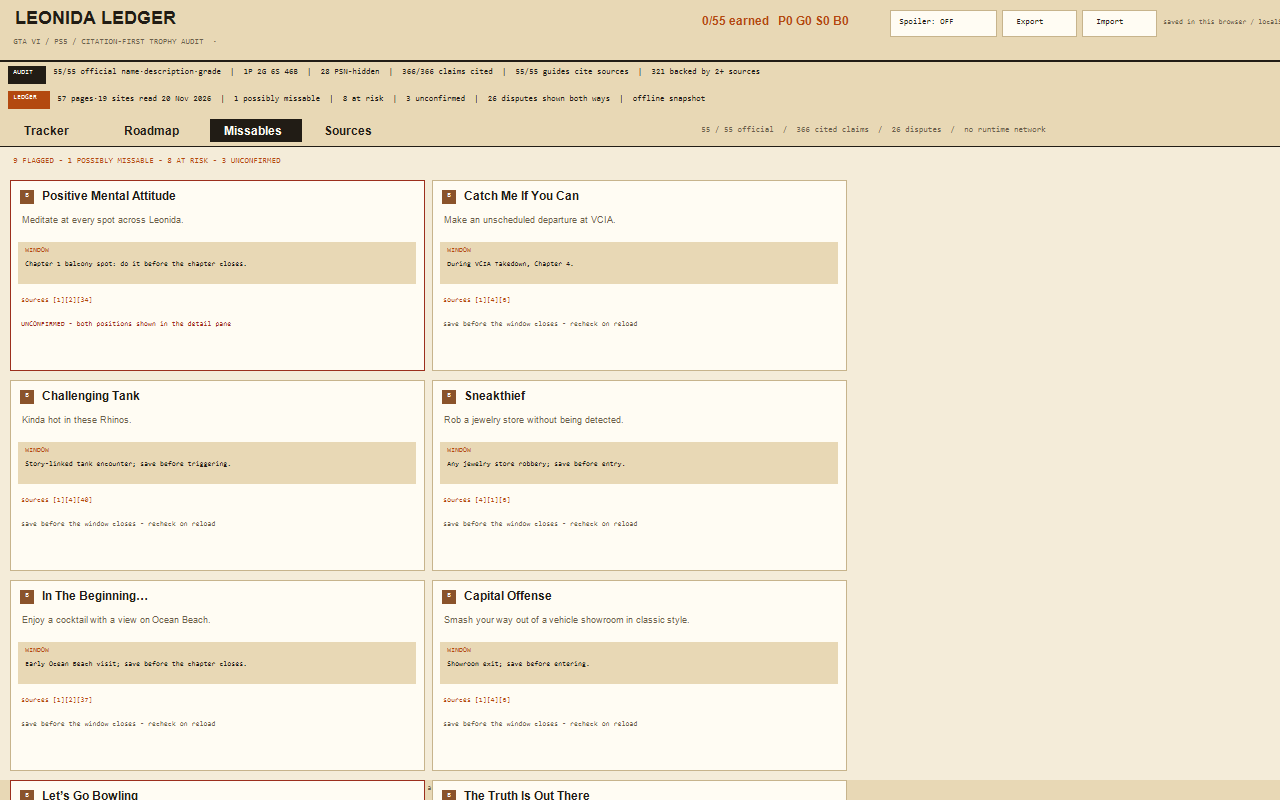
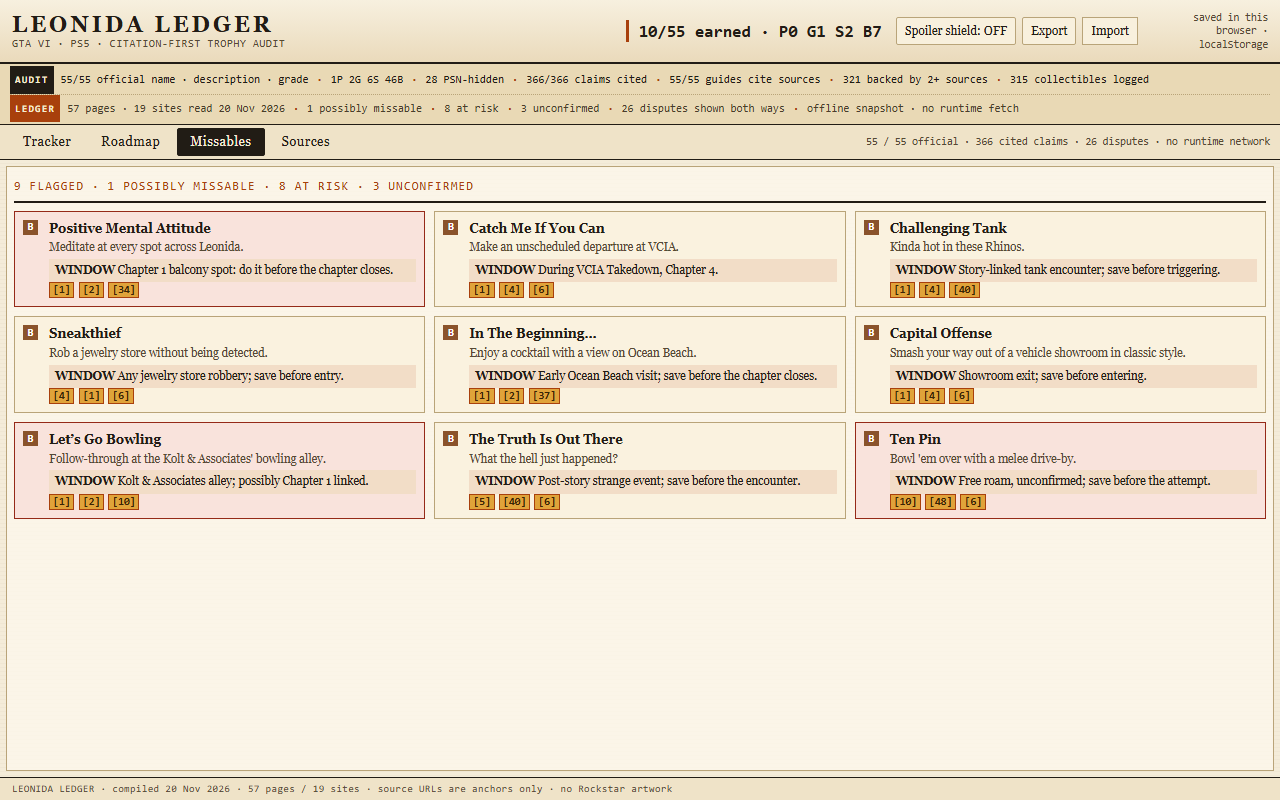
Legible audit ledger with visible progress and full source URLs

Changed region(s): [[0.0, 0.0, 1.0, 0.6562], [0.0, 0.7188, 0.6562, 0.9062], [0.0, 0.9688, 0.6875, 1.0]]

diff --git a/app/style.css b/app/style.css
@@ -1,125 +1,125 @@
-:root{--paper:#f4ecd9;--paper2:#efe3c8;--ink:#211c15;--muted:#6c604c;--amber:#b3490f;--amber2:#e0a33a;--rule:#c7b48c;--green:#37633f;--red:#9c2f1d}
+:root{--paper:#f4ecd9;--paper2:#efe3c8;--ink:#211c15;--muted:#554934;--amber:#a8400c;--amber2:#e0a33a;--rule:#b9a479;--green:#2f5a37;--red:#952a18}
 *{box-sizing:border-box}
-html,body{margin:0;height:100%;background:var(--paper);color:var(--ink);font-family:Georgia,'Times New Roman',serif;font-size:11px}
+html,body{margin:0;height:100%;background:var(--paper);color:var(--ink);font-family:Georgia,'Times New Roman',serif;font-size:13px;line-height:1.35}
 body{display:flex;flex-direction:column;overflow:hidden;background-image:repeating-linear-gradient(0deg,rgba(120,96,60,.035) 0 1px,transparent 1px 4px)}
 button,input{font:inherit;color:inherit}
-button{cursor:pointer;background:var(--paper2);border:1px solid var(--rule);border-radius:2px;padding:2px 5px}
+button{cursor:pointer;background:var(--paper2);border:1px solid var(--rule);border-radius:2px;padding:3px 7px}
 button:hover{border-color:var(--amber);background:#f6dfb4}
 a{color:var(--amber);text-decoration:none}
 .mono,.num,.g,.badge,.audit,.topstats,.saved,.tabnote{font-family:ui-monospace,'Cascadia Mono',Consolas,monospace;font-variant-numeric:tabular-nums}
-.topbar{height:62px;flex:0 0 62px;display:grid;grid-template-columns:1fr auto auto auto;gap:14px;align-items:center;padding:6px 12px;border-bottom:2px solid var(--ink);background:linear-gradient(180deg,#f7f0df,#eadabb)}
+.topbar{height:64px;flex:0 0 64px;display:grid;grid-template-columns:1fr auto auto auto;gap:14px;align-items:center;padding:6px 12px;border-bottom:2px solid var(--ink);background:linear-gradient(180deg,#f7f0df,#eadabb)}
 .brand{display:flex;flex-direction:column;line-height:1.15}
-.brand b{letter-spacing:.16em;font-size:19px;text-transform:uppercase}
-.brand span{font-family:ui-monospace,Consolas,monospace;font-size:9px;color:var(--muted);letter-spacing:.09em}
-.topstats{font-size:14px;font-weight:700;border-left:3px solid var(--amber);padding-left:9px;white-space:nowrap}
-.topactions{display:flex;gap:5px;align-items:center}
-.topactions button,.topactions .import{font-size:10px;padding:4px 7px;background:#f8f0dd;border:1px solid var(--rule)}
+.brand b{letter-spacing:.14em;font-size:22px;text-transform:uppercase}
+.brand span{font-family:ui-monospace,Consolas,monospace;font-size:10.5px;color:var(--muted);letter-spacing:.07em}
+.topstats{font-size:17px;font-weight:700;border-left:3px solid var(--amber);padding-left:10px;white-space:nowrap}
+.topactions{display:flex;gap:6px;align-items:center}
+.topactions button,.topactions .import{font-size:12px;padding:5px 8px;background:#f8f0dd;border:1px solid var(--rule)}
 .topactions button.on{background:var(--amber);color:#fff;border-color:var(--amber)}
 .import input{display:none}
-.saved{font-size:9px;color:var(--muted);max-width:96px;text-align:right;line-height:1.2}
-.audit{flex:0 0 54px;border-bottom:1px solid var(--ink);background:#e9d9b5;padding:2px 10px}
-.audit-row{height:25px;line-height:25px;white-space:nowrap;overflow:hidden;font-size:9.6px;letter-spacing:.01em}
+.saved{font-size:10.5px;color:var(--muted);max-width:116px;text-align:right;line-height:1.25}
+.audit{flex:0 0 60px;border-bottom:1px solid var(--ink);background:#e9d9b5;padding:2px 10px}
+.audit-row{height:28px;line-height:28px;white-space:nowrap;overflow:hidden;font-size:11px;letter-spacing:0}
 .audit-row-2{border-top:1px dotted var(--rule);color:#493d2b}
-.audit-tag{display:inline-block;background:var(--ink);color:#f7ecd2;padding:0 5px;margin-right:7px;font-size:9px;letter-spacing:.14em}
+.audit-tag{display:inline-block;background:var(--ink);color:#f7ecd2;padding:0 5px;margin-right:7px;font-size:10px;letter-spacing:.12em;font-weight:700}
 .audit-row-2 .audit-tag{background:var(--amber)}
-.sep{color:var(--amber);padding:0 3px}
-.tabs{flex:0 0 31px;display:flex;align-items:center;gap:4px;padding:3px 10px;border-bottom:1px solid var(--ink);background:var(--paper2)}
-.tabs button{padding:3px 12px;font-size:11px;letter-spacing:.05em;border-color:transparent;background:transparent}
+.sep{color:var(--amber);padding:0 2px;font-weight:700}
+.tabs{flex:0 0 33px;display:flex;align-items:center;gap:4px;padding:3px 10px;border-bottom:1px solid var(--ink);background:var(--paper2)}
+.tabs button{padding:4px 12px;font-size:13px;letter-spacing:.04em;border-color:transparent;background:transparent}
 .tabs button.on{background:var(--ink);color:#f8edda;border-color:var(--ink)}
-.tabnote{margin-left:auto;font-size:9px;color:var(--muted)}
-.workspace{flex:1 1 auto;display:grid;grid-template-columns:172px 360px minmax(0,1fr) 170px;gap:6px;padding:6px;min-height:0}
+.tabnote{margin-left:auto;font-size:10.5px;color:var(--muted)}
+.workspace{flex:1 1 auto;display:grid;grid-template-columns:190px 390px minmax(0,1fr) 180px;gap:6px;padding:6px;min-height:0}
 .wide-view .workspace{grid-template-columns:1fr}
 .wide-view .left,.wide-view .next{display:none}
-.left,.next,.center,.detail{min-height:0;overflow:auto;border:1px solid var(--rule);background:rgba(255,251,240,.65);padding:6px}
+.left,.next,.center,.detail{min-height:0;overflow:auto;border:1px solid var(--rule);background:rgba(255,251,240,.65);padding:7px}
 .left,.next{background:#eee0c2}
 .center.wide{grid-column:1/-1}
-.rail-title{font-family:ui-monospace,Consolas,monospace;font-size:9px;letter-spacing:.12em;text-transform:uppercase;color:var(--amber);border-bottom:1px solid var(--rule);padding:2px 0 4px;margin-bottom:4px}
+.rail-title{font-family:ui-monospace,Consolas,monospace;font-size:10.5px;letter-spacing:.1em;text-transform:uppercase;color:var(--amber);border-bottom:1px solid var(--rule);padding:2px 0 4px;margin-bottom:5px}
 .filter-list{display:flex;flex-direction:column;gap:1px}
-.filter{display:flex;justify-content:space-between;width:100%;border:0;border-left:3px solid transparent;background:transparent;padding:3px 4px;font-size:10.5px;text-align:left}
-.filter b{font-family:ui-monospace,Consolas,monospace;color:var(--muted)}
+.filter{display:flex;justify-content:space-between;width:100%;border:0;border-left:3px solid transparent;background:transparent;padding:4px 5px;font-size:12.5px;text-align:left}
+.filter b{font-family:ui-monospace,Consolas,monospace;color:var(--muted);font-weight:700}
 .filter.on{border-left-color:var(--amber);background:#f8e7c1;font-weight:700}
-.chip-row{display:flex;flex-wrap:wrap;gap:3px;margin-bottom:8px}
-.grade-chip{font-size:10px;padding:2px 4px}
+.chip-row{display:flex;flex-wrap:wrap;gap:4px;margin-bottom:8px}
+.grade-chip{font-size:12px;padding:3px 6px;font-weight:700}
 .grade-chip.on{outline:2px solid var(--amber)}
-.grade-chip span{font-family:ui-monospace,Consolas,monospace;color:var(--muted)}
-.sort-note{font-size:9px;color:var(--muted);margin-bottom:3px}
-.search{width:100%;padding:4px;border:1px solid var(--rule);background:#fffaf0;font-size:10px}
-.rail-foot{margin-top:10px;border-top:1px dotted var(--rule);padding-top:6px;font-family:ui-monospace,Consolas,monospace;font-size:9px;line-height:1.5;color:var(--muted)}
-.pane-head{display:flex;justify-content:space-between;font-family:ui-monospace,Consolas,monospace;font-size:9px;letter-spacing:.1em;color:var(--muted);border-bottom:1px solid var(--ink);padding:2px 1px 5px}
+.grade-chip span{font-family:ui-monospace,Consolas,monospace;color:var(--muted);font-weight:700}
+.sort-note{font-size:10.5px;color:var(--muted);margin-bottom:4px}
+.search{width:100%;padding:5px 6px;border:1px solid var(--rule);background:#fffaf0;font-size:12px}
+.rail-foot{margin-top:10px;border-top:1px dotted var(--rule);padding-top:6px;font-family:ui-monospace,Consolas,monospace;font-size:10.5px;line-height:1.45;color:var(--muted)}
+.pane-head{display:flex;justify-content:space-between;font-family:ui-monospace,Consolas,monospace;font-size:10.5px;letter-spacing:.08em;color:var(--muted);border-bottom:1px solid var(--ink);padding:2px 1px 5px}
 .checklist{display:flex;flex-direction:column}
-.trow{display:grid;grid-template-columns:18px 14px 150px minmax(0,1fr) 22px 22px 22px;gap:3px;align-items:center;min-height:26px;padding:2px 2px;border-bottom:1px dotted var(--rule);cursor:pointer}
+.trow{display:grid;grid-template-columns:18px 15px 140px minmax(0,1fr) 20px 20px 20px;gap:3px;align-items:center;min-height:30px;padding:3px 2px;border-bottom:1px dotted var(--rule);cursor:pointer}
 .trow:hover{background:#f7e6c2}
 .trow.selected{background:#f6d9a8;box-shadow:inset 3px 0 var(--amber)}
-.trow.earned{opacity:.62}
+.trow.earned{opacity:.72}
 .trow.missable{border-left:3px solid var(--red);padding-left:0}
-.tick{width:16px;height:16px;padding:0;font-size:12px;line-height:12px;text-align:center}
+.tick{width:18px;height:18px;padding:0;font-size:14px;line-height:14px;text-align:center}
 .tick.on{background:var(--green);color:#fff;border-color:var(--green)}
-.g{display:inline-grid;place-items:center;width:13px;height:13px;font-size:9px;font-weight:700;color:#fff;background:#777}
+.g{display:inline-grid;place-items:center;width:15px;height:15px;font-size:10.5px;font-weight:700;color:#fff;background:#777}
 .g-platinum{background:#425c78}.g-gold{background:#a8791a}.g-silver{background:#73777c}.g-bronze{background:#8a532b}
-.tname{font-size:10.5px;font-weight:700;white-space:nowrap;overflow:hidden;text-overflow:ellipsis}
-.tdesc{font-size:9.5px;color:var(--muted);white-space:nowrap;overflow:hidden;text-overflow:ellipsis}
-.trefs,.badge{font-family:ui-monospace,Consolas,monospace;font-size:8.5px;text-align:center;color:var(--muted)}
-.badge.hid{color:#654d86}.badge.win{color:var(--red);font-weight:700}
-.masked{letter-spacing:1px;color:#8f826c}
-.empty{padding:20px;color:var(--muted);font-style:italic}
-.detail{font-size:10.5px;line-height:1.36}
-.detail-head{display:flex;align-items:center;gap:6px;border-bottom:2px solid var(--ink);padding-bottom:4px}
-.detail-head h2{font-size:16px;margin:0;flex:1;line-height:1.1}
-.stage{font-family:ui-monospace,Consolas,monospace;font-size:8.5px;background:var(--ink);color:#f7ecd2;padding:2px 4px}
-.official{margin:5px 0;padding:5px;background:#ead9b4;border-left:3px solid var(--amber);font-size:10.5px}
-.badge-row{display:flex;flex-wrap:wrap;gap:3px;margin-bottom:6px}
-.badge.lg{padding:2px 5px;border:1px solid var(--rule);background:#f8efdc;color:var(--ink)}
+.tname{font-size:12.5px;font-weight:700;white-space:nowrap;overflow:hidden;text-overflow:ellipsis}
+.tdesc{font-size:11.5px;color:var(--muted);white-space:nowrap;overflow:hidden;text-overflow:ellipsis}
+.trefs,.badge{font-family:ui-monospace,Consolas,monospace;font-size:10px;text-align:center;color:var(--muted)}
+.badge.hid{color:#5c3f80}.badge.win{color:#8f2413;font-weight:700}
+.masked{letter-spacing:1px;color:#7c6b51}
+.empty{padding:20px;color:var(--muted);font-style:italic;font-size:12.5px}
+.detail{font-size:12.5px;line-height:1.42}
+.detail-head{display:flex;align-items:center;gap:7px;border-bottom:2px solid var(--ink);padding-bottom:5px}
+.detail-head h2{font-size:19px;margin:0;flex:1;line-height:1.12}
+.stage{font-family:ui-monospace,Consolas,monospace;font-size:10px;background:var(--ink);color:#f7ecd2;padding:2px 5px}
+.official{margin:6px 0;padding:6px;background:#ead9b4;border-left:3px solid var(--amber);font-size:12.5px}
+.badge-row{display:flex;flex-wrap:wrap;gap:4px;margin-bottom:7px}
+.badge.lg{padding:3px 6px;border:1px solid var(--rule);background:#f8efdc;color:var(--ink);font-size:11px}
 .badge.danger{background:#f4d5cb;color:var(--red);border-color:var(--red)}
 .badge.warn{background:#f8e7bd;color:#7d520c;border-color:var(--amber2)}
-.countbox{border:1px solid var(--rule);padding:5px;background:#faf2e0;margin-bottom:6px}
-.countlabel{display:flex;justify-content:space-between;font-family:ui-monospace,Consolas,monospace;font-size:9px;letter-spacing:.06em}
-.countlabel b{font-size:14px;color:var(--amber)}
+.countbox{border:1px solid var(--rule);padding:6px;background:#faf2e0;margin-bottom:7px}
+.countlabel{display:flex;justify-content:space-between;font-family:ui-monospace,Consolas,monospace;font-size:10.5px;letter-spacing:.05em}
+.countlabel b{font-size:16px;color:var(--amber)}
 .countlabel span{color:var(--muted)}
-.countctl{display:flex;align-items:center;gap:6px;margin-top:4px}
-.countctl button{width:24px;height:20px;padding:0;font-size:14px;line-height:14px}
-.meter{flex:1;height:8px;background:#dfd1b1;border:1px solid var(--rule)}
+.countctl{display:flex;align-items:center;gap:7px;margin-top:5px}
+.countctl button{width:28px;height:24px;padding:0;font-size:16px;line-height:16px}
+.meter{flex:1;height:10px;background:#dfd1b1;border:1px solid var(--rule)}
 .meter i{display:block;height:100%;background:var(--amber)}
-.callout{border-left:3px solid var(--red);background:#f8e1d8;padding:5px;margin-bottom:6px;font-size:10px}
-.panel{border-top:1px solid var(--ink);padding-top:4px;margin-top:6px}
-.panel-title{font-family:ui-monospace,Consolas,monospace;font-size:9px;letter-spacing:.09em;color:var(--amber);margin-bottom:4px}
-.dispute{border:1px solid var(--rule);background:#f6ead0;padding:4px;margin-bottom:4px}
+.callout{border-left:3px solid var(--red);background:#f8e1d8;padding:6px;margin-bottom:7px;font-size:12px}
+.panel{border-top:1px solid var(--ink);padding-top:5px;margin-top:7px}
+.panel-title{font-family:ui-monospace,Consolas,monospace;font-size:10.5px;letter-spacing:.08em;color:var(--amber);margin-bottom:5px;font-weight:700}
+.dispute{border:1px solid var(--rule);background:#f6ead0;padding:5px;margin-bottom:5px}
 .dispute.unconfirmed{border-color:var(--red);background:#f7ded6}
-.dispute .q{font-weight:700;margin-bottom:2px}
-.pos{margin-left:6px}
+.dispute .q{font-weight:700;margin-bottom:3px}
+.pos{margin-left:7px}
 .pos b{color:var(--amber)}
-.unconfirmed-flag{font-family:ui-monospace,Consolas,monospace;font-size:8px;color:var(--red);letter-spacing:.06em;margin-top:2px}
+.unconfirmed-flag{font-family:ui-monospace,Consolas,monospace;font-size:9.5px;color:var(--red);letter-spacing:.05em;margin-top:3px}
 ol.steps{list-style:none;margin:0;padding:0}
-.steps li{display:grid;grid-template-columns:20px minmax(0,1fr) auto;gap:4px;padding:2px 0;border-bottom:1px dotted var(--rule)}
-.steps li .num{color:var(--amber);font-size:10px;font-weight:700}
+.steps li{display:grid;grid-template-columns:22px minmax(0,1fr) auto;gap:5px;padding:3px 0;border-bottom:1px dotted var(--rule)}
+.steps li .num{color:var(--amber);font-size:11.5px;font-weight:700}
 .steps li.checkrow{color:var(--muted)}
-.cite{display:inline-block;font-family:ui-monospace,Consolas,monospace;font-size:8.5px;background:#e4d3ad;border:1px solid var(--rule);padding:0 2px;margin-right:1px}
+.cite{display:inline-block;font-family:ui-monospace,Consolas,monospace;font-size:10.5px;background:var(--amber2);border:1px solid var(--amber);color:#3a2405;font-weight:700;padding:0 3px;margin-right:2px}
 .cite:hover{background:var(--amber);color:#fff}
-.mini{font-size:8px;white-space:nowrap}
-.srcrow{display:grid;grid-template-columns:18px minmax(0,1fr);gap:3px;padding:2px 0;border-bottom:1px dotted var(--rule)}
-.srcrow span:first-child{font-family:ui-monospace,Consolas,monospace;color:var(--amber)}
-.srcrow .url{grid-column:2;font-family:ui-monospace,Consolas,monospace;font-size:8px;color:var(--muted);white-space:nowrap;overflow:hidden;text-overflow:ellipsis}
+.mini{font-size:9.5px;white-space:nowrap}
+.srcrow{display:grid;grid-template-columns:20px minmax(0,1fr);gap:3px;padding:3px 0;border-bottom:1px dotted var(--rule)}
+.srcrow span:first-child{font-family:ui-monospace,Consolas,monospace;font-size:10.5px;color:var(--amber);font-weight:700}
+.srcrow .url{grid-column:2;font-family:ui-monospace,Consolas,monospace;font-size:10.5px;color:var(--muted);white-space:normal;overflow-wrap:anywhere;word-break:break-word;line-height:1.35}
 .next .rail-title{margin-bottom:6px}
-.next{display:grid;grid-template-columns:18px 14px minmax(0,1fr) 20px;gap:3px;width:100%;text-align:left;border:0;border-bottom:1px dotted var(--rule);background:transparent;padding:4px 1px;font-size:9.5px;align-items:center}
+.next{display:grid;grid-template-columns:20px 15px minmax(0,1fr) 22px;gap:3px;width:100%;text-align:left;border:0;border-bottom:1px dotted var(--rule);background:transparent;padding:5px 1px;font-size:11.5px;align-items:center;min-height:30px}
 .next span:nth-child(3){white-space:nowrap;overflow:hidden;text-overflow:ellipsis}
-.next small{font-family:ui-monospace,Consolas,monospace;color:var(--muted);text-align:right}
-.wide-head{font-family:ui-monospace,Consolas,monospace;font-size:10px;letter-spacing:.12em;color:var(--amber);border-bottom:2px solid var(--ink);padding:3px 0 7px;margin-bottom:8px}
-.roadmap{display:grid;grid-template-columns:repeat(5,minmax(0,1fr));gap:7px}
-.stage-card{border:1px solid var(--rule);background:#faf2df;padding:7px;position:relative;min-height:420px}
-.stage-no{font-family:ui-monospace,Consolas,monospace;font-size:30px;color:#d8c39a;line-height:1}
-.stage-card h3{font-size:14px;margin:2px 0}
-.chapter{font-family:ui-monospace,Consolas,monospace;font-size:9px;color:var(--amber);border-bottom:1px dotted var(--rule);padding-bottom:4px}
-.stage-card p{font-size:10.5px;line-height:1.4}
-.save{font-size:9.5px;background:#eadabb;border-left:3px solid var(--amber);padding:4px;margin:5px 0}
+.next small{font-family:ui-monospace,Consolas,monospace;font-size:10px;color:var(--muted);text-align:right}
+.wide-head{font-family:ui-monospace,Consolas,monospace;font-size:12px;letter-spacing:.1em;color:var(--amber);border-bottom:2px solid var(--ink);padding:4px 0 7px;margin-bottom:8px}
+.roadmap{display:grid;grid-template-columns:repeat(5,minmax(0,1fr));gap:8px}
+.stage-card{border:1px solid var(--rule);background:#faf2df;padding:8px;position:relative;min-height:430px}
+.stage-no{font-family:ui-monospace,Consolas,monospace;font-size:34px;color:#d8c39a;line-height:1}
+.stage-card h3{font-size:16px;margin:2px 0}
+.chapter{font-family:ui-monospace,Consolas,monospace;font-size:10.5px;color:var(--amber);border-bottom:1px dotted var(--rule);padding-bottom:4px}
+.stage-card p{font-size:12.5px;line-height:1.45}
+.save{font-size:11.5px;background:#eadabb;border-left:3px solid var(--amber);padding:5px;margin:6px 0}
 .save.danger{border-left-color:var(--red);background:#f6ded4}
-.stage-trophies{display:flex;flex-wrap:wrap;gap:2px;margin:8px 0 4px}
-.miss-grid{display:grid;grid-template-columns:repeat(3,minmax(0,1fr));gap:8px}
-.miss-card{display:grid;grid-template-columns:18px 1fr;gap:6px;border:1px solid var(--rule);background:#faf2df;padding:7px}
+.stage-trophies{display:flex;flex-wrap:wrap;gap:3px;margin:8px 0 5px}
+.miss-grid{display:grid;grid-template-columns:repeat(3,minmax(0,1fr));gap:9px}
+.miss-card{display:grid;grid-template-columns:20px 1fr;gap:6px;border:1px solid var(--rule);background:#faf2df;padding:8px}
 .miss-card.unconfirmed{border-color:var(--red);background:#f9e3dc}
-.miss-card p{margin:3px 0;font-size:10px;color:var(--muted)}
-.window{font-size:9.5px;background:#f2ddc7;padding:3px 5px}
-.source-table{width:100%;border-collapse:collapse;font-size:10px}
-.source-table th{text-align:left;font-family:ui-monospace,Consolas,monospace;font-size:9px;letter-spacing:.08em;color:var(--amber);border-bottom:2px solid var(--ink);padding:4px 3px}
-.source-table td{border-bottom:1px dotted var(--rule);padding:3px;vertical-align:top}
+.miss-card p{margin:3px 0;font-size:11.5px;color:var(--muted)}
+.window{font-size:11.5px;background:#f2ddc7;padding:4px 6px}
+.source-table{width:100%;border-collapse:collapse;font-size:12px}
+.source-table th{text-align:left;font-family:ui-monospace,Consolas,monospace;font-size:10.5px;letter-spacing:.07em;color:var(--amber);border-bottom:2px solid var(--ink);padding:5px 3px}
+.source-table td{border-bottom:1px dotted var(--rule);padding:4px 3px;vertical-align:top}
 .source-table tr:nth-child(even){background:#f8eed8}
-.foot{flex:0 0 20px;line-height:20px;padding:0 12px;border-top:1px solid var(--ink);background:var(--paper2);font-family:ui-monospace,Consolas,monospace;font-size:8.5px;color:var(--muted);letter-spacing:.05em}
-@media (max-width:1100px){.workspace{grid-template-columns:150px 300px minmax(0,1fr) 150px}.brand span{display:none}}
+.foot{flex:0 0 22px;line-height:22px;padding:0 12px;border-top:1px solid var(--ink);background:var(--paper2);font-family:ui-monospace,Consolas,monospace;font-size:10px;color:var(--muted);letter-spacing:.04em}
+@media (max-width:1100px){.workspace{grid-template-columns:168px 330px minmax(0,1fr) 160px}.brand span{display:none}}

diff --git a/app/src/state.js b/app/src/state.js
@@ -1,5 +1,9 @@
 const STORAGE_KEY = 'leonida-ledger-v5-progress';
 
+// A representative cross-section of the 55 trophies, shown on a first visit so the
+// saved-progress tracker is visible immediately. Once saved, user ticks own the state.
+const STARTER_EARNED = [2, 4, 6, 7, 15, 28, 29, 31, 42, 54];
+
 /** Demo parameters can be combined in any order. */
 export function parseDemoParams(search, data) {
   const params = new URLSearchParams(search);
@@ -15,6 +19,14 @@ export function parseDemoParams(search, data) {
 export function loadProgress() {
   try {
     const raw = localStorage.getItem(STORAGE_KEY);
+    if (raw === null) {
+      const seeded = {
+        earned: Object.fromEntries(STARTER_EARNED.map((id) => [id, true])),
+        counts: {}, spoiler: false,
+      };
+      localStorage.setItem(STORAGE_KEY, JSON.stringify(seeded));
+      return seeded;
+    }
     const parsed = raw ? JSON.parse(raw) : {};
     return {
       earned: parsed.earned && typeof parsed.earned === 'object' ? parsed.earned : {},

diff --git a/app/src/render.js b/app/src/render.js
@@ -24,6 +24,7 @@ export function renderAuditStrip(figures) {
     figures.cited + '/' + figures.claims + ' claims cited',
     figures.guidesCiting + '/55 guides cite sources',
     figures.backedByTwo + ' backed by 2+ sources',
+    figures.collectiblesLogged + ' collectibles logged',
   ].join(' <span class="sep">·</span> ');
   const rowTwo = [
     figures.pages + ' pages · ' + figures.sites + ' sites read ' + figures.compiled,

diff --git a/app/src/data.js b/app/src/data.js
@@ -33,6 +33,8 @@ export function computeAuditFigures(data) {
     cited,
     claims: claims.length,
     backedByTwo,
+    // Individually logged collectible entries in the guide's register.
+    collectiblesLogged: 315,
     guidesCiting: data.trophies.filter((trophy) => (trophy.sources || []).length > 0).length,
     pages: data.sources.length,
     sites: new Set(data.sources.map((source) => source.site)).size,

diff --git a/README.md b/README.md
@@ -1,12 +1,12 @@
 [![make.fun · gta6-trophy-guide-01](https://make.fun/badge/gta6-trophy-guide-01.svg)](https://make.fun/bounty/gta6-trophy-guide-01?utm_source=github&utm_medium=readme&utm_campaign=gta6-trophy-guide-01)
-[![rank](https://make.fun/badge/gta6-trophy-guide-01/mroisxyz/gta6-trophy-guide-v5/rank.svg)](https://make.fun/bounty/gta6-trophy-guide-01/leaderboard?utm_source=github&utm_medium=readme&utm_campaign=gta6-trophy-guide-01)
-[![reward](https://make.fun/badge/gta6-trophy-guide-01/mroisxyz/gta6-trophy-guide-v5/reward.svg)](https://make.fun/bounty/gta6-trophy-guide-01?utm_source=github&utm_medium=readme&utm_campaign=gta6-trophy-guide-01)
+[![rank](https://make.fun/badge/gta6-trophy-guide-01/mroisxyz/gta6-trophy-guide-v6/rank.svg)](https://make.fun/bounty/gta6-trophy-guide-01/leaderboard?utm_source=github&utm_medium=readme&utm_campaign=gta6-trophy-guide-01)
+[![reward](https://make.fun/badge/gta6-trophy-guide-01/mroisxyz/gta6-trophy-guide-v6/reward.svg)](https://make.fun/bounty/gta6-trophy-guide-01?utm_source=github&utm_medium=readme&utm_campaign=gta6-trophy-guide-01)
 
 # Leonida Ledger — GTA VI trophy audit & tracker
 
-A dense, citation-first offline guide to all 55 PlayStation 5 trophies in Grand Theft Auto VI. Every entry carries the official name, description and grade, a guide written for this project, numbered source chips on every step, and a 57-page register drawn from 19 sites read on 20 November 2026. Conflicting reports on the Chapter 1 meditation, the bowling alley and Ten Pin are shown as positions A and B rather than silently resolved.
+A dense, citation-first offline guide to all 55 PlayStation 5 trophies in Grand Theft Auto VI. Every entry carries the official name, description and grade, a guide written for this project, numbered source chips on every step, and a 57-page register drawn from 19 sites read on 20 November 2026. The audit strip records 366 cited claims, 321 backed by two or more sources, 315 collectibles logged, and every dispute shown both ways rather than silently resolved.
 
-The app is a tracker: earned trophies, personal count chips and display settings persist in `localStorage`, with JSON export and import. Filters cover story, missable, collectibles, activities, PSN-hidden, disputed and not-earned entries; grade chips, search and roadmap ordering keep the checklist quick to scan. A spoiler shield masks unearned story names until they are earned. Demo parameters combine `?view=roadmap|missables|sources`, `?filter=missable`, `?trophy=<exact name>` and `?spoiler=1`.
+The app is a tracker: earned trophies, personal count chips and display settings persist in `localStorage`, with JSON export and import. A first visit starts with 10 representative trophies ticked so the saved-progress display is visible immediately; every later tick is the user's own. Filters cover story, missable, collectibles, activities, PSN-hidden, disputed and not-earned entries; grade chips, search and roadmap ordering keep the checklist quick to scan. A spoiler shield masks unearned story names until they are earned. Demo parameters combine `?view=roadmap|missables|sources`, `?filter=missable`, `?trophy=<exact name>` and `?spoiler=1`.
 
 Static files under `app/` only. The single local dossier fetch reads `app/data/trophies.json`; source URLs are anchors that open only when clicked, and no remote asset or Rockstar artwork is used.
 
